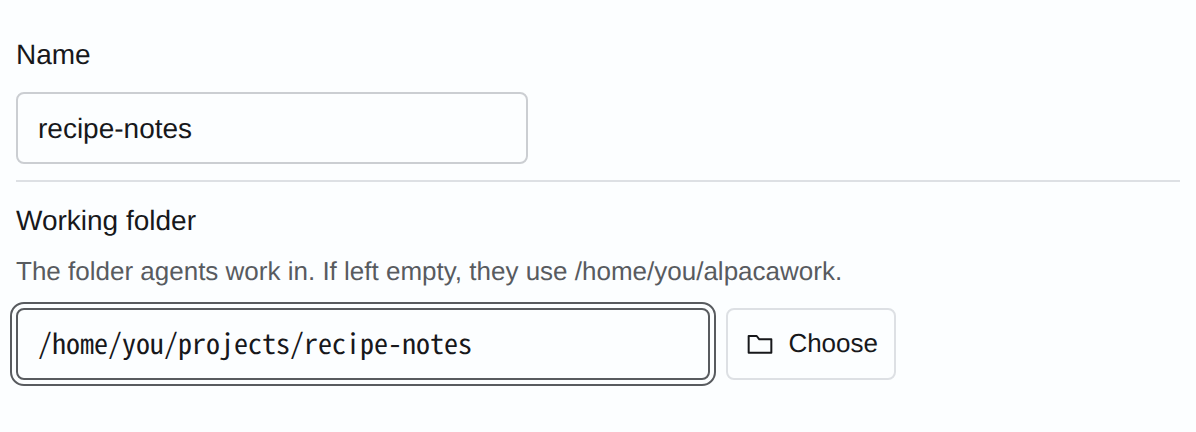
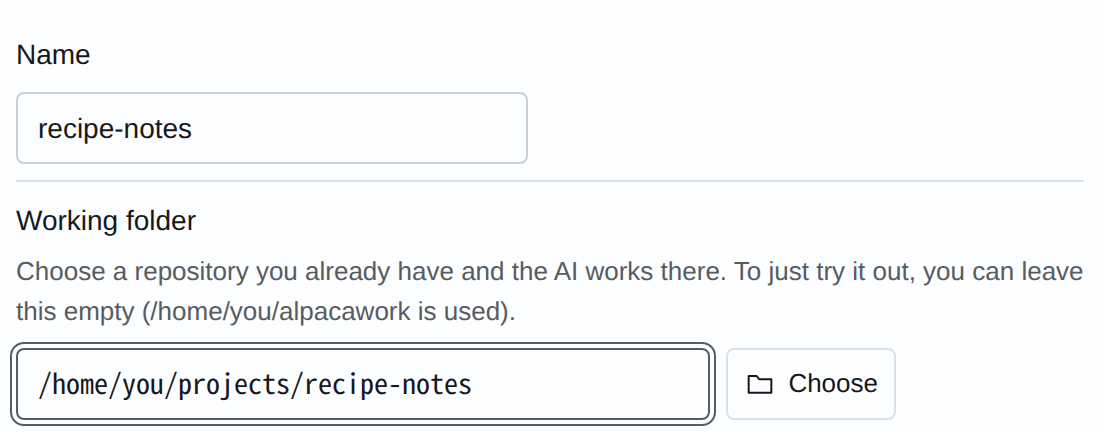
Match the docs to the new setup screen: leave the working folder empty to try it out
Retake the setup picture in Japanese and English, and say what the setup
screen now says about an empty working folder in every language.

diff --git a/docs/pt-BR/getting-started.md b/docs/pt-BR/getting-started.md
@@ -37,13 +37,13 @@ Se não conseguir abrir, veja [A tela não abre](troubleshooting.md#a-tela-não-
 Siga as quatro etapas da tela, em ordem.
 
 1. Escolha o idioma e o tema da tela e pressione “Avançar”.
-2. Ative (“On”) as IAs que vai usar e pressione “Avançar”.
+2. Deixe as IAs que vai usar em “Ativado” e pressione “Avançar”.
 3. Na etapa seguinte, deixe as recomendações como estão e pressione o botão de instalar.
 4. Defina o nome do projeto e o “Local do código” e pressione “Concluir configuração”.
 
 <img src="../images/setup-project.png" alt="A última etapa da configuração inicial. Há os campos “Name” e “Working folder”, e o botão “Choose” ao lado de “Working folder”" width="480">
 
-Um projeto é uma pasta em que a IA trabalha, junto com as regras para trabalhar nela (a política do projeto). Para usar um repositório que você já tem, escolha a pasta dele como “Local do código”. Se for só para experimentar, crie uma pasta vazia com “Escolher” → “Criar uma nova pasta”. Você pode começar com a política do projeto de exemplo, como está.
+Um projeto é uma pasta em que a IA trabalha, junto com as regras para trabalhar nela (a política do projeto). Para usar um repositório que você já tem, escolha a pasta dele como “Local do código”. Se for só para experimentar, deixe o “Local do código” vazio (será usado `~/alpacawork`). Você pode começar com a política do projeto de exemplo, como está.
 
 ## 4. Enviar uma solicitação
 
@@ -59,7 +59,7 @@ Leia o conteúdo desta pasta e resuma em 3 linhas para que ela serve. Não alter
 
 A IA lê a pasta e escreve na resposta o resumo e as sugestões de trabalho (às vezes ela cria uma tarefa e faz a pergunta por lá). Se vier na resposta, envie pelo campo de mensagem a sugestão que quer seguir, como “Siga com a 1”; ela vira uma tarefa e aparece como uma linha na lista.
 
-Em uma pasta vazia, pressione o exemplo da tela “Escolher uma ideia de minijogo e mandar criar” e envie.
+Se for só para experimentar, pressione o exemplo da tela “Escolher uma ideia de minijogo e mandar criar” e envie.
 
 Enquanto a IA trabalha na tarefa, você não precisa ficar olhando a tela.
 

diff --git a/docs/ja/getting-started.md b/docs/ja/getting-started.md
@@ -43,7 +43,7 @@ alpacawork setup
 
 <img src="../images/setup-project-ja.png" alt="セットアップの最後のステップ。「名前」と「作業フォルダ」の欄があり、作業フォルダの横に「選ぶ」のボタンがある" width="480">
 
-プロジェクトは、AI に作業させるフォルダ1つと、そこでの約束（プロジェクト方針）の組です。すでにあるリポジトリで使うときは、そのフォルダを作業フォルダにします。試すだけなら、「選ぶ」→「新しいフォルダを作る」で空のフォルダを作ります。プロジェクト方針は例のままで始められます。
+プロジェクトは、AI に作業させるフォルダ1つと、そこでの約束（プロジェクト方針）の組です。すでにあるリポジトリで使うときは、そのフォルダを作業フォルダにします。試すだけなら、作業フォルダは空のままにします（`~/alpacawork` を使います）。プロジェクト方針は例のままで始められます。
 
 ## 4. 依頼を送る
 
@@ -59,7 +59,7 @@ alpacawork setup
 
 AI がフォルダを読み、まとめと作業の案を返事に書きます（タスクにして質問で聞いてくることもあります）。返事のときは、進めたい案を「1 を進めてください」のように入力欄で送ると、タスクになって一覧に1行出ます。
 
-空のフォルダなら、画面の例の「ミニゲームの案から選んで、作ってもらう」を押して送ります。
+試すだけなら、画面の例の「ミニゲームの案から選んで、作ってもらう」を押して送ります。
 
 AI がタスクを進めている間は、画面を見ていなくてかまいません。
 

diff --git a/docs/es/getting-started.md b/docs/es/getting-started.md
@@ -43,7 +43,7 @@ Sigue en orden los cuatro pasos de la pantalla.
 
 <img src="../images/setup-project.png" alt="El último paso de la configuración, con los campos “Name” y “Working folder”, y el botón “Choose” junto a Working folder" width="480">
 
-Un proyecto es una carpeta en la que trabaja la IA, junto con las reglas para trabajar en ella (la política del proyecto). Para usarlo con un repositorio existente, elige esa carpeta como ubicación del código. Si solo quieres probar, crea una carpeta vacía con “Elegir” → “Crear una carpeta nueva”. Puedes empezar con la política del proyecto de ejemplo tal como está.
+Un proyecto es una carpeta en la que trabaja la IA, junto con las reglas para trabajar en ella (la política del proyecto). Para usarlo con un repositorio existente, elige esa carpeta como ubicación del código. Si solo quieres probar, deja la ubicación del código vacía (se usa `~/alpacawork`). Puedes empezar con la política del proyecto de ejemplo tal como está.
 
 ## 4. Enviar una solicitud
 
@@ -59,7 +59,7 @@ Lee el contenido de esta carpeta y resume en tres líneas para qué sirve. No mo
 
 La IA lee la carpeta y escribe en su respuesta un resumen y propuestas de trabajo (a veces crea una tarea y te lo pregunta). Si vienen en la respuesta, envía en el cuadro de texto la propuesta que quieras, por ejemplo “Haz la 1”: se convierte en una tarea y aparece una fila en la lista.
 
-Si la carpeta está vacía, pulsa el ejemplo de la pantalla “Elige una idea de minijuego y pide que lo creen” y envíalo.
+Si solo quieres probar, pulsa el ejemplo de la pantalla “Elige una idea de minijuego y pide que lo creen” y envíalo.
 
 Mientras la IA trabaja en la tarea, no hace falta que mires la pantalla.
 

diff --git a/docs/getting-started.md b/docs/getting-started.md
@@ -43,7 +43,7 @@ Go through the screen's four steps in order.
 
 <img src="images/setup-project.png" alt="The last step of setup, with the “Name” and “Working folder” fields and a “Choose” button beside the working folder" width="480">
 
-A project is one folder for the AI to work in, together with the ground rules for working there (the project policy). To use an existing repository, make its folder the working folder. If you are only trying it out, make an empty folder with "Choose" → "Create a new folder". You can start with the example project policy as it is.
+A project is one folder for the AI to work in, together with the ground rules for working there (the project policy). To use an existing repository, make its folder the working folder. If you are only trying it out, leave the working folder empty (`~/alpacawork` is used). You can start with the example project policy as it is.
 
 ## 4. Send a request
 
@@ -59,7 +59,7 @@ Read the contents of this folder and sum up what it is for in 3 lines. Don't cha
 
 The AI reads the folder and writes the summary and the suggestions in its reply (it may also make a task and ask you in a question). If it answers in a reply, send the one you want in the input box, like "Go ahead with 1", and it becomes a task with a row in the list.
 
-In an empty folder, press the screen's example "Pick a mini game idea, then have it built", then send it.
+If you are only trying it out, press the screen's example "Pick a mini game idea, then have it built", then send it.
 
 While the AI works on a task, you don't need to watch the screen.
 

diff --git a/docs/zh-CN/getting-started.md b/docs/zh-CN/getting-started.md
@@ -43,7 +43,7 @@ alpacawork setup
 
 <img src="../images/setup-project.png" alt="Setup's last step, with the Name and Working folder fields and a Choose button next to Working folder" width="480">
 
-项目，是让 AI 工作的一个文件夹，加上在那里要遵守的约定（项目准则）。在已有的仓库中使用时，把那个文件夹设为代码位置。只是试一试的话，用“选择”→“新建文件夹”建一个空文件夹即可。项目准则保持示例内容就能开始。
+项目，是让 AI 工作的一个文件夹，加上在那里要遵守的约定（项目准则）。在已有的仓库中使用时，把那个文件夹设为代码位置。只是试一试的话，代码位置留空即可（将使用 `~/alpacawork`）。项目准则保持示例内容就能开始。
 
 ## 4. 发送委托
 
@@ -59,7 +59,7 @@ alpacawork setup
 
 AI 会读取文件夹，在回复中写出概括和工作方案（有时也会建成任务，以提问的方式来问你）。如果是在回复里给出的，就在输入框里发送“请推进 1”这样的话，它会变成任务，在列表中多出一行。
 
-如果是空文件夹，按界面上的示例“选一个小游戏的点子，再让 AI 做出来”并发送。
+只是试一试的话，按界面上的示例“选一个小游戏的点子，再让 AI 做出来”并发送。
 
 AI 推进任务期间，你不必盯着界面。
 
